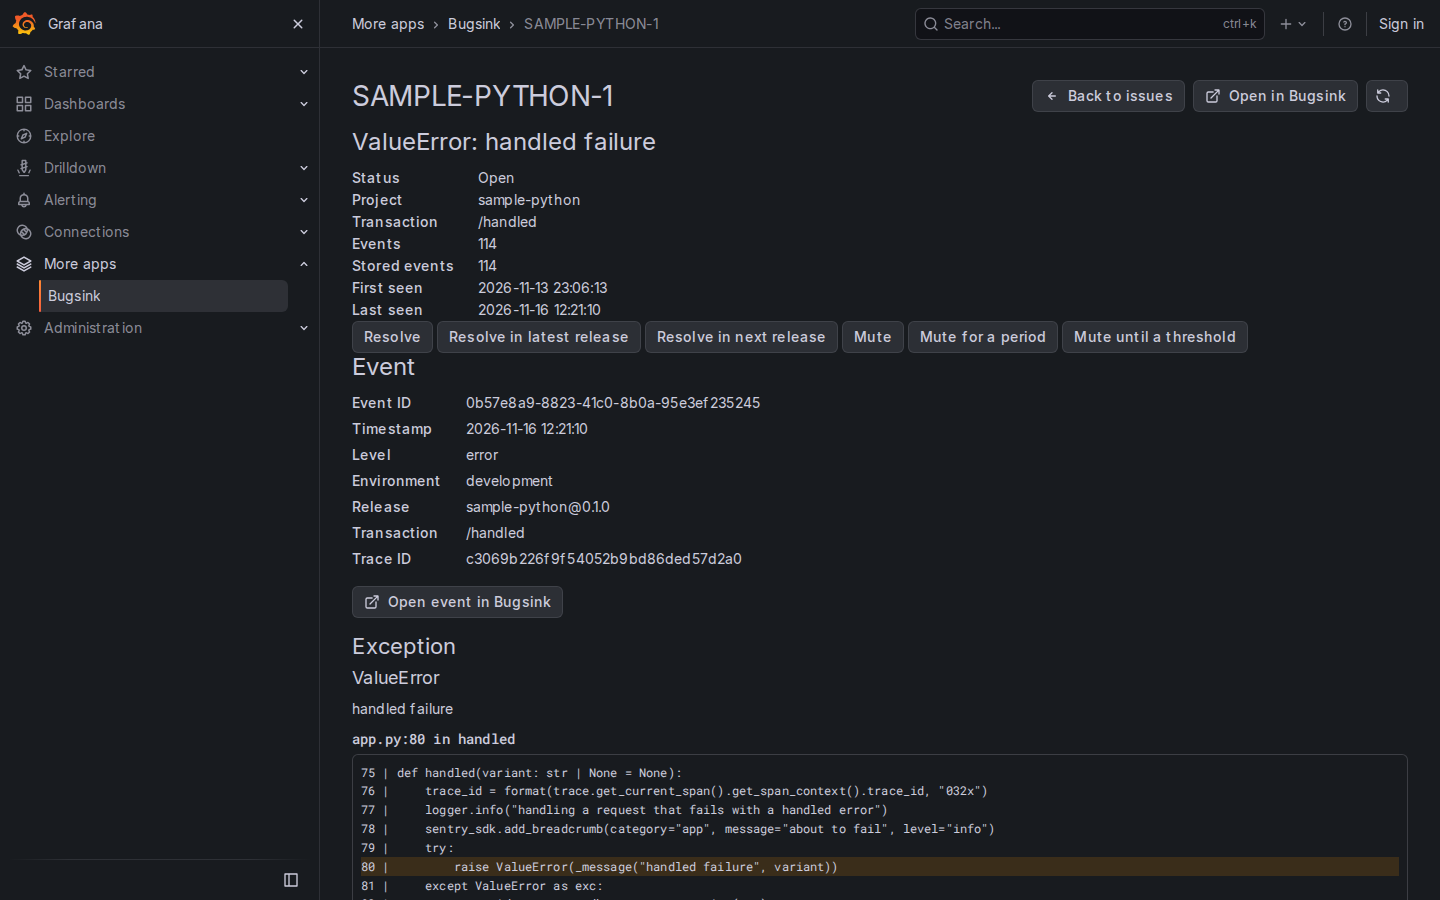
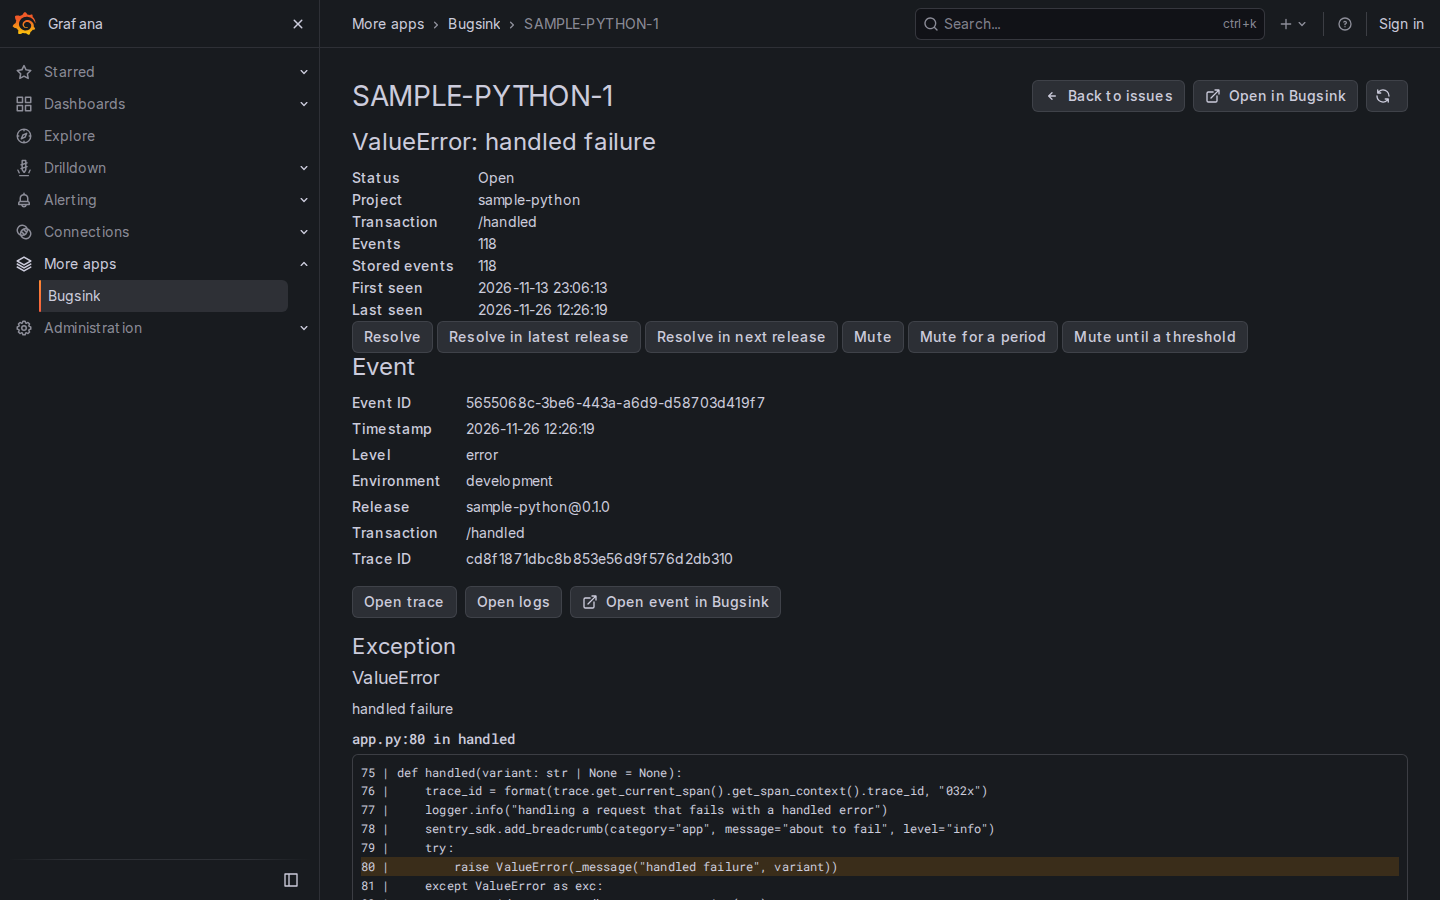
Retake the issue page screenshot with the trace and log links
The new screenshot shows Open trace and Open logs beside the triage actions,
taken from the development stack with a data source that has triage and the
Tempo and Loki links on.

Claude-Session: https://claude.ai/code/session_013GdksNvvW3NvUJGfeoEskZ

Changed region(s): [[0.25, 0.5911, 0.5312, 0.6844], [0.3125, 0.4356, 0.5312, 0.4978], [0.375, 0.3111, 0.4375, 0.3733]]

diff --git a/README.md b/README.md
@@ -18,7 +18,7 @@ Version 0.1.1 is released on [GitHub Releases](https://github.com/a-h-i/grafana-
 
 ![Issue list with filters and a 24-hour event chart per issue](src/img/screenshots/issue-list.png)
 
-![Issue page with triage actions and the event detail](src/img/screenshots/issue-detail.png)
+![Issue page with triage actions and the event's trace and log links](src/img/screenshots/issue-detail.png)
 
 The user guide, with setup, the token capabilities and every setting, is [`src/README.md`](src/README.md).
 
